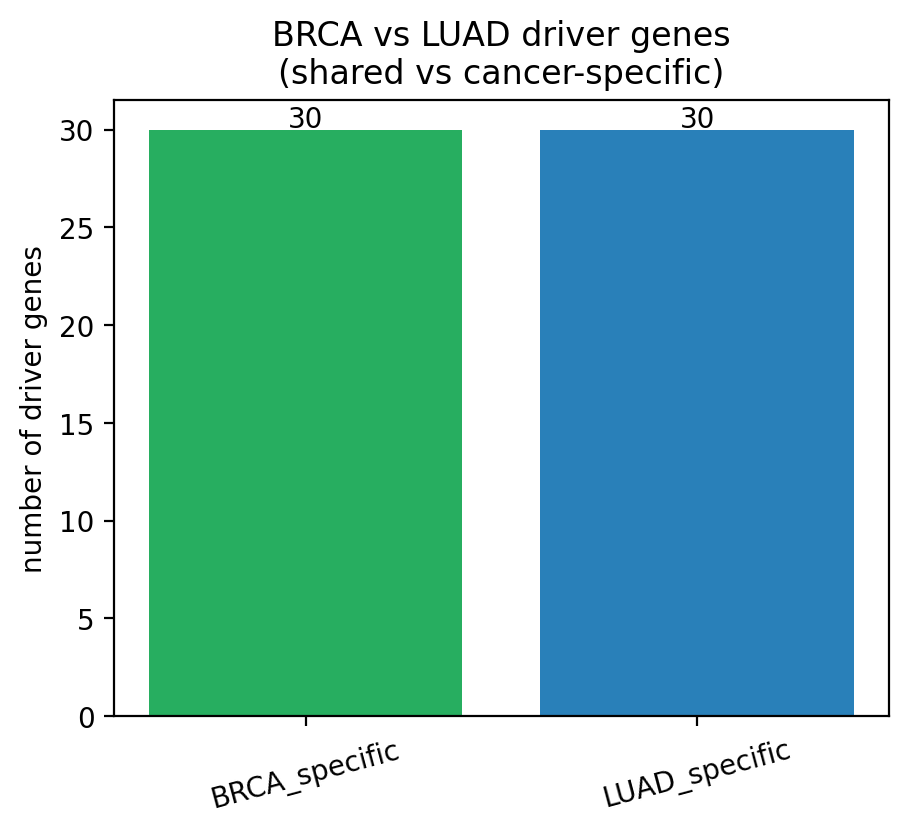
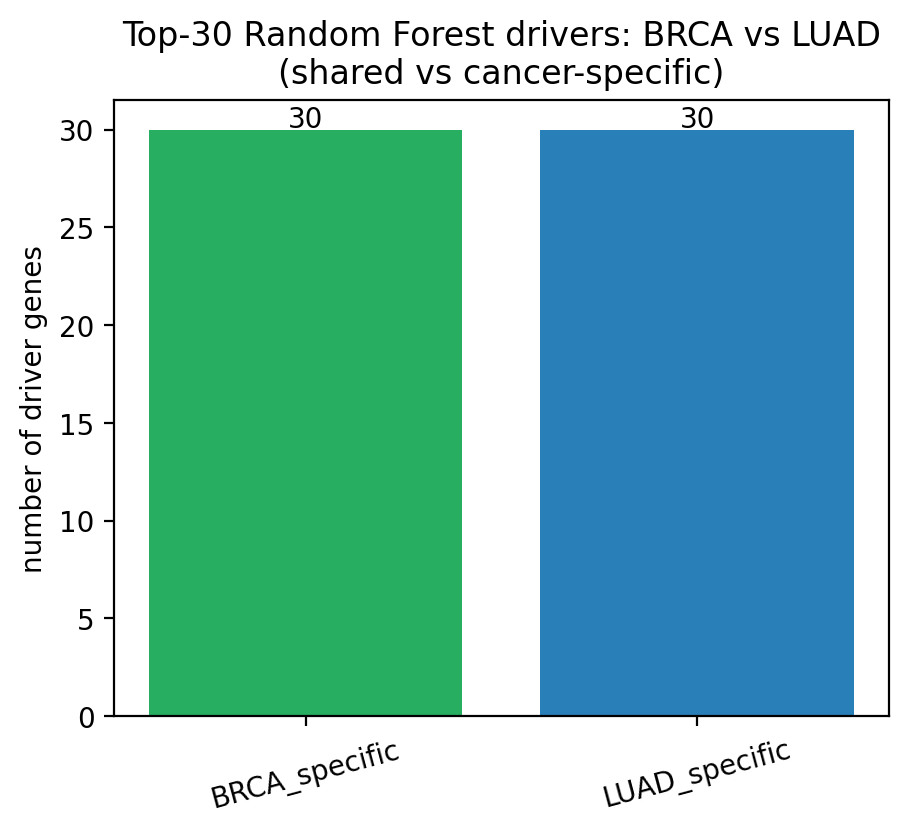
Clarify cross-cancer figure title to specify top-30 Random Forest view

Changed region(s): [[0.1233, 0.0, 0.9868, 0.0624]]

diff --git a/phase6_figures.py b/phase6_figures.py
@@ -119,7 +119,7 @@ def fig_cross_cancer():
     for i, v in enumerate(counts.values):
         ax.text(i, v + 0.1, str(v), ha="center")
     ax.set_ylabel("number of driver genes")
-    ax.set_title("BRCA vs LUAD driver genes\n(shared vs cancer-specific)")
+    ax.set_title("Top-30 Random Forest drivers: BRCA vs LUAD\n(shared vs cancer-specific)")
     ax.tick_params(axis="x", rotation=15)
     _save(fig, "fig_cross_cancer.png")
 
